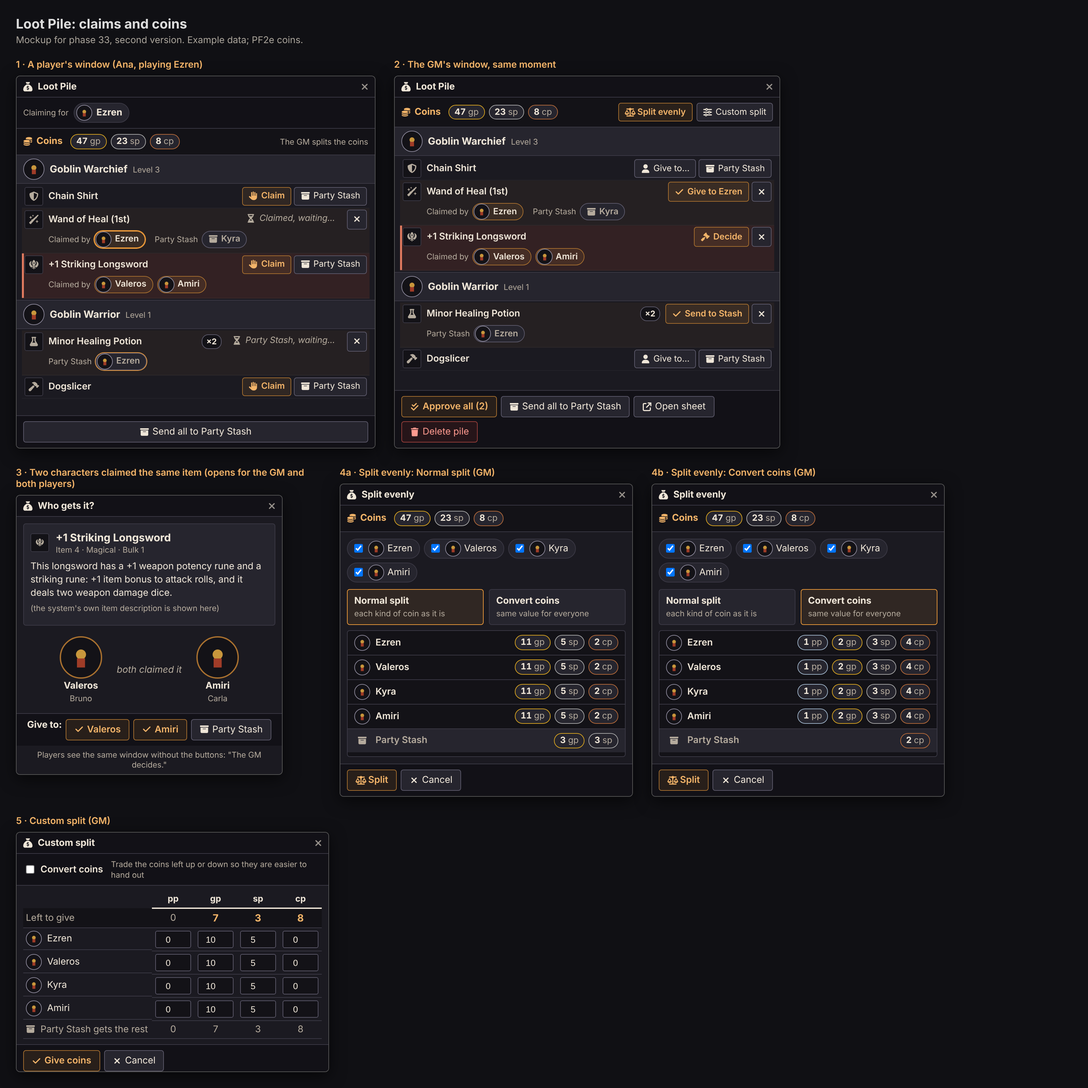
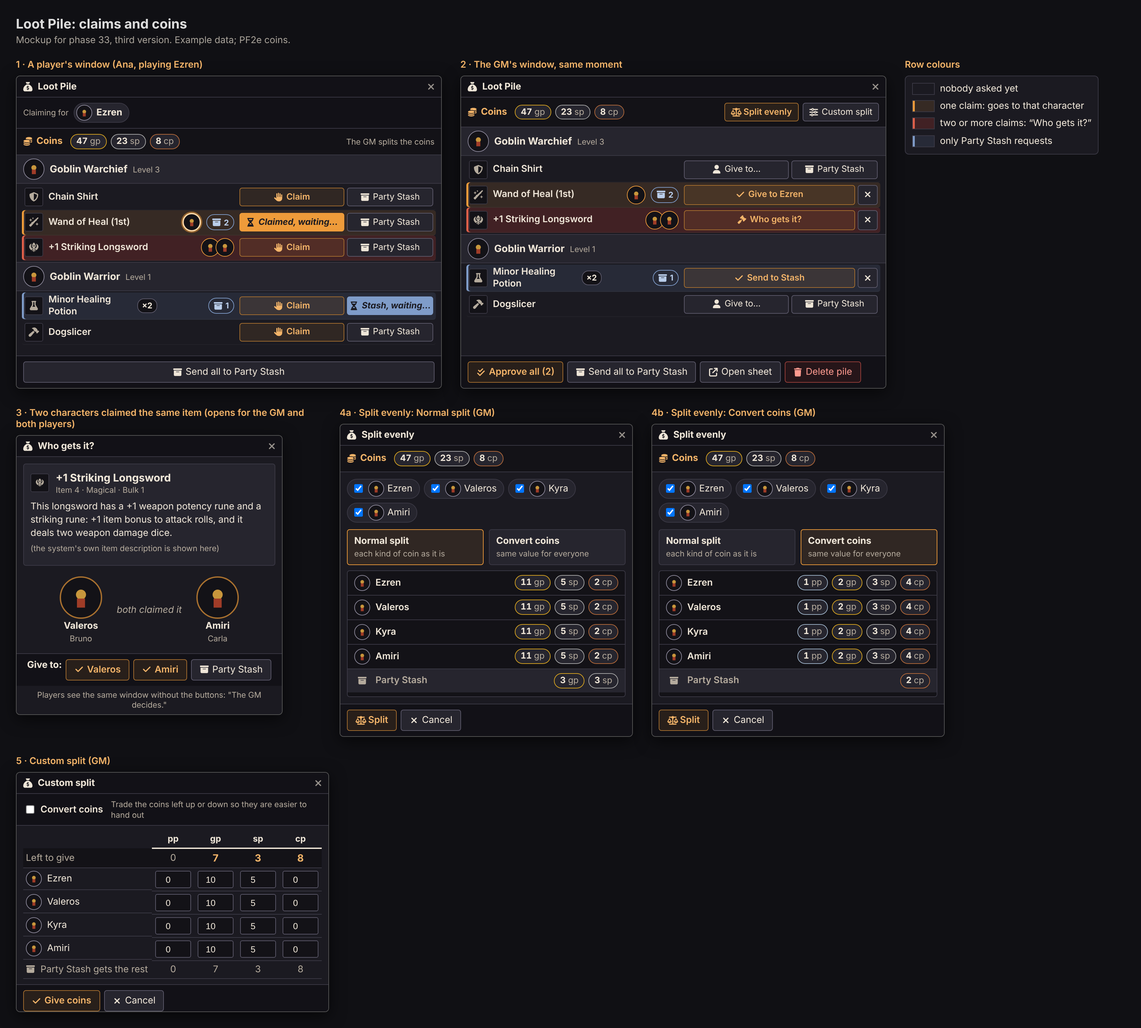
Mockup: loot claims, third version (one row per item, claimer tokens, stash count, row colours)
Claude-Session: https://claude.ai/code/session_0153o4CiDP6WqBbXwEtu9WMy

Changed region(s): [[0.0, 0.0, 0.964, 0.991]]

diff --git a/docs/mockups/loot-claims.html b/docs/mockups/loot-claims.html
@@ -70,32 +70,46 @@ figure { margin: 0; } figcaption { max-width: 460px; margin-bottom: 8px; color: 
 .lucd20-loot-app .mk-share-name { flex: none; width: 96px; font-weight: 600; } .lucd20-loot-app .mk-share .mk-coin-list { justify-content: flex-end; }
 .lucd20-loot-app .mk-share.stash { background: var(--ll-bg-raised); color: var(--ll-text-muted); } .lucd20-loot-app .mk-share.stash > .ll-i { width: 24px; text-align: center; }
 .lucd20-loot-app .mk-pcs { padding-top: 10px; }
+
+.lucd20-loot-app .mk-row { border-bottom: 1px solid rgba(255,255,255,.04); min-height: 38px; }
+.lucd20-loot-app .mk-row.is-waiting, .lucd20-loot-app .mk-sw.is-waiting { background: rgba(238,155,58,.13); box-shadow: inset 3px 0 0 var(--ll-accent); }
+.lucd20-loot-app .mk-row.is-contested, .lucd20-loot-app .mk-sw.is-contested { background: rgba(190,60,45,.24); box-shadow: inset 3px 0 0 #e0604a; }
+.lucd20-loot-app .mk-row.is-stash, .lucd20-loot-app .mk-sw.is-stash { background: rgba(110,140,190,.14); box-shadow: inset 3px 0 0 #7f9cc9; }
+.lucd20-loot-app .mk-claimcol { display: inline-flex; flex: none; align-items: center; justify-content: flex-end; gap: 8px; width: 108px; }
+.lucd20-loot-app .mk-tokens { display: inline-flex; } .lucd20-loot-app .mk-tokens .lucd20-loot-portrait { width: 28px; height: 28px; border-color: var(--ll-accent); }
+.lucd20-loot-app .mk-tokens .lucd20-loot-portrait + .lucd20-loot-portrait { margin-left: -6px; }
+.lucd20-loot-app .mk-tokens .lucd20-loot-portrait.me { border-width: 2px; border-color: #ffd9a8; box-shadow: 0 0 0 2px rgba(238,155,58,.5); }
+.lucd20-loot-app .mk-stashcount { display: inline-flex; align-items: center; gap: 4px; height: 24px; padding: 0 7px; border: 1px solid #7f9cc9; border-radius: 12px; color: #b9cdea; font-size: 12px; }
+.lucd20-loot-app button.ll-btn.mk-w1 { width: 158px !important; justify-content: center; } .lucd20-loot-app button.ll-btn.mk-w2 { width: 130px !important; justify-content: center; } .lucd20-loot-app button.ll-btn.mk-w3 { width: 258px !important; justify-content: center; }
+.lucd20-loot-app .mk-row .actions { flex: none; }
+.lucd20-loot-app button.mk-on { background: var(--ll-accent); border-color: var(--ll-accent); color: #1b1a21; font-weight: 700; font-style: italic; }
+.lucd20-loot-app button.mk-on.stash { background: #7f9cc9; border-color: #7f9cc9; }
+.lucd20-loot-app .mk-legend { display: flex !important; flex-direction: row !important; flex-wrap: wrap; align-items: center; gap: 8px; padding: 10px !important; border: 1px solid #3b3945; border-radius: 6px; max-width: 300px; }
+.lucd20-loot-app .mk-sw { width: 34px; height: 18px; border: 1px solid var(--ll-border); }
+.lucd20-loot-app .mk-legend { display: grid !important; grid-template-columns: 34px 1fr; }
 </style></head><body>
-<h1>Loot Pile: claims and coins</h1><p class="lead">Mockup for phase 33, second version. Example data; PF2e coins.</p>
-<div class="board">
-<figure><figcaption>1 · A player's window (Ana, playing Ezren)</figcaption><div class="application lucd20-loot-app lucd20-loot-window" style="width:540px;height:560px"><header class="window-header"><i class="fa-solid fa-sack-dollar"></i> Loot Pile<i class="fa-solid fa-xmark mk-x"></i></header><section class="window-content"><div class="lucd20-loot-body"><div class="lucd20-loot-taker"><span class="label">Claiming for</span><span class="lucd20-loot-taker-chip"><span class="lucd20-loot-portrait small"><img src="/modules/lucd20-automations/tools/harness/icons/ezren.webp" alt=""></span><strong>Ezren</strong></span></div>
-<div class="mk-coins"><span class="mk-coins-title"><i class="ll-i fa-solid fa-coins" aria-hidden="true"></i>Coins</span><span class="mk-coin-list"><span class="mk-coin gp"><b>47</b> gp</span><span class="mk-coin sp"><b>23</b> sp</span><span class="mk-coin cp"><b>8</b> cp</span></span><span class="mk-coins-note">The GM splits the coins</span></div><div class="lucd20-loot-list"><section class="lucd20-loot-group"><header class="lucd20-loot-group-header"><span class="lucd20-loot-portrait "><img src="/modules/lucd20-automations/tools/harness/icons/boss-actor.png" alt=""></span><span class="who"><span class="npc">Goblin Warchief</span><span class="level">Level 3</span></span></header><ol><li class="mk-row "><div class="lucd20-loot-item"><span class="lucd20-loot-icon mk-ico"><i class="fa-solid fa-shield-halved"></i></span><span class="name">Chain Shirt</span><span class="actions"><button type="button" class="ll-btn ll-btn-take" ><i class="ll-i fa-solid fa-hand" aria-hidden="true"></i><span>Claim</span></button><button type="button" class="ll-btn " ><i class="ll-i fa-solid fa-box-archive" aria-hidden="true"></i><span>Party Stash</span></button></span></div></li><li class="mk-row is-waiting"><div class="lucd20-loot-item"><span class="lucd20-loot-icon mk-ico"><i class="fa-solid fa-wand-sparkles"></i></span><span class="name">Wand of Heal (1st)</span><span class="actions"><span class="mk-wait"><i class="ll-i fa-solid fa-hourglass-half" aria-hidden="true"></i><span>Claimed, waiting…</span></span><button type="button" class="ll-btn ll-btn-square" data-tooltip="Withdraw"><i class="ll-i fa-solid fa-xmark" aria-hidden="true"></i><span></span></button></span></div><div class="mk-claims"><span class="mk-claims-label">Claimed by</span><span class="mk-chip me"><span class="lucd20-loot-portrait small"><img src="/modules/lucd20-automations/tools/harness/icons/ezren.webp" alt=""></span><span>Ezren</span></span><span class="mk-claims-label">Party Stash</span><span class="mk-chip stash"><i class="ll-i fa-solid fa-box-archive" aria-hidden="true"></i><span>Kyra</span></span></div></li><li class="mk-row is-contested"><div class="lucd20-loot-item"><span class="lucd20-loot-icon mk-ico"><i class="fa-solid fa-khanda"></i></span><span class="name">+1 Striking Longsword</span><span class="actions"><button type="button" class="ll-btn ll-btn-take" ><i class="ll-i fa-solid fa-hand" aria-hidden="true"></i><span>Claim</span></button><button type="button" class="ll-btn " ><i class="ll-i fa-solid fa-box-archive" aria-hidden="true"></i><span>Party Stash</span></button></span></div><div class="mk-claims"><span class="mk-claims-label">Claimed by</span><span class="mk-chip "><span class="lucd20-loot-portrait small"><img src="/modules/lucd20-automations/tools/harness/icons/valeros.webp" alt=""></span><span>Valeros</span></span><span class="mk-chip "><span class="lucd20-loot-portrait small"><img src="/modules/lucd20-automations/tools/harness/icons/boss-actor.png" alt=""></span><span>Amiri</span></span></div></li></ol></section><section class="lucd20-loot-group"><header class="lucd20-loot-group-header"><span class="lucd20-loot-portrait "><img src="/modules/lucd20-automations/tools/harness/icons/goblin.webp" alt=""></span><span class="who"><span class="npc">Goblin Warrior</span><span class="level">Level 1</span></span></header><ol><li class="mk-row is-waiting"><div class="lucd20-loot-item"><span class="lucd20-loot-icon mk-ico"><i class="fa-solid fa-flask"></i></span><span class="name">Minor Healing Potion</span><span class="qty">×2</span><span class="actions"><span class="mk-wait stash"><i class="ll-i fa-solid fa-hourglass-half" aria-hidden="true"></i><span>Party Stash, waiting…</span></span><button type="button" class="ll-btn ll-btn-square" ><i class="ll-i fa-solid fa-xmark" aria-hidden="true"></i><span></span></button></span></div><div class="mk-claims"><span class="mk-claims-label">Party Stash</span><span class="mk-chip me stash"><span class="lucd20-loot-portrait small"><img src="/modules/lucd20-automations/tools/harness/icons/ezren.webp" alt=""></span><span>Ezren</span></span></div></li><li class="mk-row "><div class="lucd20-loot-item"><span class="lucd20-loot-icon mk-ico"><i class="fa-solid fa-hammer"></i></span><span class="name">Dogslicer</span><span class="actions"><button type="button" class="ll-btn ll-btn-take" ><i class="ll-i fa-solid fa-hand" aria-hidden="true"></i><span>Claim</span></button><button type="button" class="ll-btn " ><i class="ll-i fa-solid fa-box-archive" aria-hidden="true"></i><span>Party Stash</span></button></span></div></li></ol></section></div>
-<footer class="lucd20-loot-footer"><button type="button" class="ll-btn ll-btn-footer ll-btn-all" ><i class="ll-i fa-solid fa-box-archive" aria-hidden="true"></i><span>Send all to Party Stash</span></button></footer></div></section></div></figure>
-<figure><figcaption>2 · The GM's window, same moment</figcaption><div class="application lucd20-loot-app lucd20-loot-window" style="width:580px;height:560px"><header class="window-header"><i class="fa-solid fa-sack-dollar"></i> Loot Pile<i class="fa-solid fa-xmark mk-x"></i></header><section class="window-content"><div class="lucd20-loot-body"><div class="mk-coins"><span class="mk-coins-title"><i class="ll-i fa-solid fa-coins" aria-hidden="true"></i>Coins</span><span class="mk-coin-list"><span class="mk-coin gp"><b>47</b> gp</span><span class="mk-coin sp"><b>23</b> sp</span><span class="mk-coin cp"><b>8</b> cp</span></span><span class="mk-coin-actions"><button type="button" class="ll-btn ll-btn-take" ><i class="ll-i fa-solid fa-scale-balanced" aria-hidden="true"></i><span>Split evenly</span></button><button type="button" class="ll-btn " ><i class="ll-i fa-solid fa-sliders" aria-hidden="true"></i><span>Custom split</span></button></span></div>
-<div class="lucd20-loot-list"><section class="lucd20-loot-group"><header class="lucd20-loot-group-header"><span class="lucd20-loot-portrait "><img src="/modules/lucd20-automations/tools/harness/icons/boss-actor.png" alt=""></span><span class="who"><span class="npc">Goblin Warchief</span><span class="level">Level 3</span></span></header><ol><li class="mk-row "><div class="lucd20-loot-item"><span class="lucd20-loot-icon mk-ico"><i class="fa-solid fa-shield-halved"></i></span><span class="name">Chain Shirt</span><span class="actions"><button type="button" class="ll-btn " ><i class="ll-i fa-solid fa-user" aria-hidden="true"></i><span>Give to…</span></button><button type="button" class="ll-btn " ><i class="ll-i fa-solid fa-box-archive" aria-hidden="true"></i><span>Party Stash</span></button></span></div></li><li class="mk-row is-waiting"><div class="lucd20-loot-item"><span class="lucd20-loot-icon mk-ico"><i class="fa-solid fa-wand-sparkles"></i></span><span class="name">Wand of Heal (1st)</span><span class="actions"><button type="button" class="ll-btn ll-btn-take" ><i class="ll-i fa-solid fa-check" aria-hidden="true"></i><span>Give to Ezren</span></button><button type="button" class="ll-btn ll-btn-square" data-tooltip="Refuse"><i class="ll-i fa-solid fa-xmark" aria-hidden="true"></i><span></span></button></span></div><div class="mk-claims"><span class="mk-claims-label">Claimed by</span><span class="mk-chip "><span class="lucd20-loot-portrait small"><img src="/modules/lucd20-automations/tools/harness/icons/ezren.webp" alt=""></span><span>Ezren</span></span><span class="mk-claims-label">Party Stash</span><span class="mk-chip stash"><i class="ll-i fa-solid fa-box-archive" aria-hidden="true"></i><span>Kyra</span></span></div></li><li class="mk-row is-contested"><div class="lucd20-loot-item"><span class="lucd20-loot-icon mk-ico"><i class="fa-solid fa-khanda"></i></span><span class="name">+1 Striking Longsword</span><span class="actions"><button type="button" class="ll-btn ll-btn-take" ><i class="ll-i fa-solid fa-gavel" aria-hidden="true"></i><span>Decide</span></button><button type="button" class="ll-btn ll-btn-square" data-tooltip="Refuse"><i class="ll-i fa-solid fa-xmark" aria-hidden="true"></i><span></span></button></span></div><div class="mk-claims"><span class="mk-claims-label">Claimed by</span><span class="mk-chip "><span class="lucd20-loot-portrait small"><img src="/modules/lucd20-automations/tools/harness/icons/valeros.webp" alt=""></span><span>Valeros</span></span><span class="mk-chip "><span class="lucd20-loot-portrait small"><img src="/modules/lucd20-automations/tools/harness/icons/boss-actor.png" alt=""></span><span>Amiri</span></span></div></li></ol></section><section class="lucd20-loot-group"><header class="lucd20-loot-group-header"><span class="lucd20-loot-portrait "><img src="/modules/lucd20-automations/tools/harness/icons/goblin.webp" alt=""></span><span class="who"><span class="npc">Goblin Warrior</span><span class="level">Level 1</span></span></header><ol><li class="mk-row is-waiting"><div class="lucd20-loot-item"><span class="lucd20-loot-icon mk-ico"><i class="fa-solid fa-flask"></i></span><span class="name">Minor Healing Potion</span><span class="qty">×2</span><span class="actions"><button type="button" class="ll-btn ll-btn-take" ><i class="ll-i fa-solid fa-check" aria-hidden="true"></i><span>Send to Stash</span></button><button type="button" class="ll-btn ll-btn-square" data-tooltip="Refuse"><i class="ll-i fa-solid fa-xmark" aria-hidden="true"></i><span></span></button></span></div><div class="mk-claims"><span class="mk-claims-label">Party Stash</span><span class="mk-chip stash"><span class="lucd20-loot-portrait small"><img src="/modules/lucd20-automations/tools/harness/icons/ezren.webp" alt=""></span><span>Ezren</span></span></div></li><li class="mk-row "><div class="lucd20-loot-item"><span class="lucd20-loot-icon mk-ico"><i class="fa-solid fa-hammer"></i></span><span class="name">Dogslicer</span><span class="actions"><button type="button" class="ll-btn " ><i class="ll-i fa-solid fa-user" aria-hidden="true"></i><span>Give to…</span></button><button type="button" class="ll-btn " ><i class="ll-i fa-solid fa-box-archive" aria-hidden="true"></i><span>Party Stash</span></button></span></div></li></ol></section></div><footer class="lucd20-loot-footer is-gm"><button type="button" class="ll-btn ll-btn-footer ll-btn-take" ><i class="ll-i fa-solid fa-check-double" aria-hidden="true"></i><span>Approve all (2)</span></button><button type="button" class="ll-btn ll-btn-footer" ><i class="ll-i fa-solid fa-box-archive" aria-hidden="true"></i><span>Send all to Party Stash</span></button><button type="button" class="ll-btn ll-btn-footer" ><i class="ll-i fa-solid fa-arrow-up-right-from-square" aria-hidden="true"></i><span>Open sheet</span></button><button type="button" class="ll-btn ll-btn-footer ll-btn-danger" ><i class="ll-i fa-solid fa-trash" aria-hidden="true"></i><span>Delete pile</span></button></footer></div></section></div></figure>
-<figure><figcaption>3 · Two characters claimed the same item (opens for the GM and both players)</figcaption><div class="application lucd20-loot-app lucd20-loot-window" style="width:400px;height:420px"><header class="window-header"><i class="fa-solid fa-sack-dollar"></i> Who gets it?<i class="fa-solid fa-xmark mk-x"></i></header><section class="window-content"><div class="lucd20-loot-body mk-pad"><div class="mk-card"><header><span class="lucd20-loot-icon mk-ico"><i class="fa-solid fa-khanda"></i></span><div><strong>+1 Striking Longsword</strong><span>Item 4 · Magical · Bulk 1</span></div></header>
+<h1>Loot Pile: claims and coins</h1><p class="lead">Mockup for phase 33, third version. Example data; PF2e coins.</p>
+<div class="board"><figure><figcaption>1 · A player's window (Ana, playing Ezren)</figcaption><div class="application lucd20-loot-app lucd20-loot-window" style="width:640px;height:470px"><header class="window-header"><i class="fa-solid fa-sack-dollar"></i> Loot Pile<i class="fa-solid fa-xmark mk-x"></i></header><section class="window-content"><div class="lucd20-loot-body"><div class="lucd20-loot-taker"><span class="label">Claiming for</span><span class="lucd20-loot-taker-chip"><span class="lucd20-loot-portrait small" data-tooltip="Ezren" title="Ezren"><img src="/modules/lucd20-automations/tools/harness/icons/ezren.webp" alt=""></span><strong>Ezren</strong></span></div>
+<div class="mk-coins"><span class="mk-coins-title"><i class="ll-i fa-solid fa-coins" aria-hidden="true"></i>Coins</span><span class="mk-coin-list"><span class="mk-coin gp"><b>47</b> gp</span><span class="mk-coin sp"><b>23</b> sp</span><span class="mk-coin cp"><b>8</b> cp</span></span><span class="mk-coins-note">The GM splits the coins</span></div><div class="lucd20-loot-list">
+<section class="lucd20-loot-group"><header class="lucd20-loot-group-header"><span class="lucd20-loot-portrait"><img src="/modules/lucd20-automations/tools/harness/icons/boss-actor.png" alt=""></span><span class="who"><span class="npc">Goblin Warchief</span><span class="level">Level 3</span></span></header><ol><li class="lucd20-loot-item mk-row "><span class="lucd20-loot-icon mk-ico"><i class="fa-solid fa-shield-halved"></i></span><span class="name">Chain Shirt</span><span class="mk-claimcol"><span class="mk-tokens"></span></span><span class="actions"><button type="button" class="ll-btn ll-btn-take mk-w1" ><i class="ll-i fa-solid fa-hand" aria-hidden="true"></i><span>Claim</span></button><button type="button" class="ll-btn mk-w2" ><i class="ll-i fa-solid fa-box-archive" aria-hidden="true"></i><span>Party Stash</span></button></span></li><li class="lucd20-loot-item mk-row is-waiting"><span class="lucd20-loot-icon mk-ico"><i class="fa-solid fa-wand-sparkles"></i></span><span class="name">Wand of Heal (1st)</span><span class="mk-claimcol"><span class="mk-tokens"><span class="lucd20-loot-portrait small me" data-tooltip="Ezren" title="Ezren"><img src="/modules/lucd20-automations/tools/harness/icons/ezren.webp" alt=""></span></span><span class="mk-stashcount" title="Party Stash: Kyra, Amiri"><i class="ll-i fa-solid fa-box-archive" aria-hidden="true"></i><b>2</b></span></span><span class="actions"><button type="button" class="ll-btn mk-on mk-w1" title="Click to take your claim back"><i class="ll-i fa-solid fa-hourglass-half" aria-hidden="true"></i><span>Claimed, waiting…</span></button><button type="button" class="ll-btn mk-w2" ><i class="ll-i fa-solid fa-box-archive" aria-hidden="true"></i><span>Party Stash</span></button></span></li><li class="lucd20-loot-item mk-row is-contested"><span class="lucd20-loot-icon mk-ico"><i class="fa-solid fa-khanda"></i></span><span class="name">+1 Striking Longsword</span><span class="mk-claimcol"><span class="mk-tokens"><span class="lucd20-loot-portrait small" data-tooltip="Valeros" title="Valeros"><img src="/modules/lucd20-automations/tools/harness/icons/valeros.webp" alt=""></span><span class="lucd20-loot-portrait small" data-tooltip="Amiri" title="Amiri"><img src="/modules/lucd20-automations/tools/harness/icons/boss-actor.png" alt=""></span></span></span><span class="actions"><button type="button" class="ll-btn ll-btn-take mk-w1" ><i class="ll-i fa-solid fa-hand" aria-hidden="true"></i><span>Claim</span></button><button type="button" class="ll-btn mk-w2" ><i class="ll-i fa-solid fa-box-archive" aria-hidden="true"></i><span>Party Stash</span></button></span></li></ol></section>
+<section class="lucd20-loot-group"><header class="lucd20-loot-group-header"><span class="lucd20-loot-portrait"><img src="/modules/lucd20-automations/tools/harness/icons/goblin.webp" alt=""></span><span class="who"><span class="npc">Goblin Warrior</span><span class="level">Level 1</span></span></header><ol><li class="lucd20-loot-item mk-row is-stash"><span class="lucd20-loot-icon mk-ico"><i class="fa-solid fa-flask"></i></span><span class="name">Minor Healing Potion</span><span class="qty">×2</span><span class="mk-claimcol"><span class="mk-tokens"></span><span class="mk-stashcount" title="Party Stash: Ezren"><i class="ll-i fa-solid fa-box-archive" aria-hidden="true"></i><b>1</b></span></span><span class="actions"><button type="button" class="ll-btn ll-btn-take mk-w1" ><i class="ll-i fa-solid fa-hand" aria-hidden="true"></i><span>Claim</span></button><button type="button" class="ll-btn mk-on stash mk-w2" title="Click to take it back"><i class="ll-i fa-solid fa-hourglass-half" aria-hidden="true"></i><span>Stash, waiting…</span></button></span></li><li class="lucd20-loot-item mk-row "><span class="lucd20-loot-icon mk-ico"><i class="fa-solid fa-hammer"></i></span><span class="name">Dogslicer</span><span class="mk-claimcol"><span class="mk-tokens"></span></span><span class="actions"><button type="button" class="ll-btn ll-btn-take mk-w1" ><i class="ll-i fa-solid fa-hand" aria-hidden="true"></i><span>Claim</span></button><button type="button" class="ll-btn mk-w2" ><i class="ll-i fa-solid fa-box-archive" aria-hidden="true"></i><span>Party Stash</span></button></span></li></ol></section>
+</div><footer class="lucd20-loot-footer"><button type="button" class="ll-btn ll-btn-footer ll-btn-all" ><i class="ll-i fa-solid fa-box-archive" aria-hidden="true"></i><span>Send all to Party Stash</span></button></footer></div></section></div></figure><figure><figcaption>2 · The GM's window, same moment</figcaption><div class="application lucd20-loot-app lucd20-loot-window" style="width:640px;height:470px"><header class="window-header"><i class="fa-solid fa-sack-dollar"></i> Loot Pile<i class="fa-solid fa-xmark mk-x"></i></header><section class="window-content"><div class="lucd20-loot-body"><div class="mk-coins"><span class="mk-coins-title"><i class="ll-i fa-solid fa-coins" aria-hidden="true"></i>Coins</span><span class="mk-coin-list"><span class="mk-coin gp"><b>47</b> gp</span><span class="mk-coin sp"><b>23</b> sp</span><span class="mk-coin cp"><b>8</b> cp</span></span><span class="mk-coin-actions"><button type="button" class="ll-btn ll-btn-take" ><i class="ll-i fa-solid fa-scale-balanced" aria-hidden="true"></i><span>Split evenly</span></button><button type="button" class="ll-btn " ><i class="ll-i fa-solid fa-sliders" aria-hidden="true"></i><span>Custom split</span></button></span></div><div class="lucd20-loot-list">
+<section class="lucd20-loot-group"><header class="lucd20-loot-group-header"><span class="lucd20-loot-portrait"><img src="/modules/lucd20-automations/tools/harness/icons/boss-actor.png" alt=""></span><span class="who"><span class="npc">Goblin Warchief</span><span class="level">Level 3</span></span></header><ol><li class="lucd20-loot-item mk-row "><span class="lucd20-loot-icon mk-ico"><i class="fa-solid fa-shield-halved"></i></span><span class="name">Chain Shirt</span><span class="mk-claimcol"><span class="mk-tokens"></span></span><span class="actions"><button type="button" class="ll-btn mk-w1" ><i class="ll-i fa-solid fa-user" aria-hidden="true"></i><span>Give to…</span></button><button type="button" class="ll-btn mk-w2" ><i class="ll-i fa-solid fa-box-archive" aria-hidden="true"></i><span>Party Stash</span></button></span></li><li class="lucd20-loot-item mk-row is-waiting"><span class="lucd20-loot-icon mk-ico"><i class="fa-solid fa-wand-sparkles"></i></span><span class="name">Wand of Heal (1st)</span><span class="mk-claimcol"><span class="mk-tokens"><span class="lucd20-loot-portrait small" data-tooltip="Ezren" title="Ezren"><img src="/modules/lucd20-automations/tools/harness/icons/ezren.webp" alt=""></span></span><span class="mk-stashcount" title="Party Stash: Kyra, Amiri"><i class="ll-i fa-solid fa-box-archive" aria-hidden="true"></i><b>2</b></span></span><span class="actions"><button type="button" class="ll-btn ll-btn-take mk-w3" ><i class="ll-i fa-solid fa-check" aria-hidden="true"></i><span>Give to Ezren</span></button><button type="button" class="ll-btn ll-btn-square" title="Refuse"><i class="ll-i fa-solid fa-xmark" aria-hidden="true"></i><span></span></button></span></li><li class="lucd20-loot-item mk-row is-contested"><span class="lucd20-loot-icon mk-ico"><i class="fa-solid fa-khanda"></i></span><span class="name">+1 Striking Longsword</span><span class="mk-claimcol"><span class="mk-tokens"><span class="lucd20-loot-portrait small" data-tooltip="Valeros" title="Valeros"><img src="/modules/lucd20-automations/tools/harness/icons/valeros.webp" alt=""></span><span class="lucd20-loot-portrait small" data-tooltip="Amiri" title="Amiri"><img src="/modules/lucd20-automations/tools/harness/icons/boss-actor.png" alt=""></span></span></span><span class="actions"><button type="button" class="ll-btn ll-btn-take mk-w3" ><i class="ll-i fa-solid fa-gavel" aria-hidden="true"></i><span>Who gets it?</span></button><button type="button" class="ll-btn ll-btn-square" title="Refuse"><i class="ll-i fa-solid fa-xmark" aria-hidden="true"></i><span></span></button></span></li></ol></section>
+<section class="lucd20-loot-group"><header class="lucd20-loot-group-header"><span class="lucd20-loot-portrait"><img src="/modules/lucd20-automations/tools/harness/icons/goblin.webp" alt=""></span><span class="who"><span class="npc">Goblin Warrior</span><span class="level">Level 1</span></span></header><ol><li class="lucd20-loot-item mk-row is-stash"><span class="lucd20-loot-icon mk-ico"><i class="fa-solid fa-flask"></i></span><span class="name">Minor Healing Potion</span><span class="qty">×2</span><span class="mk-claimcol"><span class="mk-tokens"></span><span class="mk-stashcount" title="Party Stash: Ezren"><i class="ll-i fa-solid fa-box-archive" aria-hidden="true"></i><b>1</b></span></span><span class="actions"><button type="button" class="ll-btn ll-btn-take mk-w3" ><i class="ll-i fa-solid fa-check" aria-hidden="true"></i><span>Send to Stash</span></button><button type="button" class="ll-btn ll-btn-square" title="Refuse"><i class="ll-i fa-solid fa-xmark" aria-hidden="true"></i><span></span></button></span></li><li class="lucd20-loot-item mk-row "><span class="lucd20-loot-icon mk-ico"><i class="fa-solid fa-hammer"></i></span><span class="name">Dogslicer</span><span class="mk-claimcol"><span class="mk-tokens"></span></span><span class="actions"><button type="button" class="ll-btn mk-w1" ><i class="ll-i fa-solid fa-user" aria-hidden="true"></i><span>Give to…</span></button><button type="button" class="ll-btn mk-w2" ><i class="ll-i fa-solid fa-box-archive" aria-hidden="true"></i><span>Party Stash</span></button></span></li></ol></section>
+</div><footer class="lucd20-loot-footer is-gm"><button type="button" class="ll-btn ll-btn-footer ll-btn-take" ><i class="ll-i fa-solid fa-check-double" aria-hidden="true"></i><span>Approve all (2)</span></button><button type="button" class="ll-btn ll-btn-footer" ><i class="ll-i fa-solid fa-box-archive" aria-hidden="true"></i><span>Send all to Party Stash</span></button><button type="button" class="ll-btn ll-btn-footer" ><i class="ll-i fa-solid fa-arrow-up-right-from-square" aria-hidden="true"></i><span>Open sheet</span></button><button type="button" class="ll-btn ll-btn-footer ll-btn-danger" ><i class="ll-i fa-solid fa-trash" aria-hidden="true"></i><span>Delete pile</span></button></footer></div></section></div></figure><figure><figcaption>Row colours</figcaption><div class="lucd20-loot-app"><div class="window-content mk-legend"><span class="mk-sw"></span>nobody asked yet<span class="mk-sw is-waiting"></span>one claim: goes to that character<span class="mk-sw is-contested"></span>two or more claims: “Who gets it?”<span class="mk-sw is-stash"></span>only Party Stash requests</div></div></figure><figure><figcaption>3 · Two characters claimed the same item (opens for the GM and both players)</figcaption><div class="application lucd20-loot-app lucd20-loot-window" style="width:400px;height:420px"><header class="window-header"><i class="fa-solid fa-sack-dollar"></i> Who gets it?<i class="fa-solid fa-xmark mk-x"></i></header><section class="window-content"><div class="lucd20-loot-body mk-pad"><div class="mk-card"><header><span class="lucd20-loot-icon mk-ico"><i class="fa-solid fa-khanda"></i></span><div><strong>+1 Striking Longsword</strong><span>Item 4 · Magical · Bulk 1</span></div></header>
 <p>This longsword has a +1 weapon potency rune and a striking rune: +1 item bonus to attack rolls, and it deals two weapon damage dice.</p><p class="mk-muted">(the system's own item description is shown here)</p></div>
 <div class="mk-versus"><div class="mk-pc"><span class="lucd20-loot-portrait mk-big"><img src="/modules/lucd20-automations/tools/harness/icons/valeros.webp" alt=""></span><strong>Valeros</strong><span>Bruno</span></div><span class="mk-vs">both claimed it</span><div class="mk-pc"><span class="lucd20-loot-portrait mk-big"><img src="/modules/lucd20-automations/tools/harness/icons/boss-actor.png" alt=""></span><strong>Amiri</strong><span>Carla</span></div></div>
-<footer class="lucd20-loot-footer mk-give"><span class="mk-give-label">Give to:</span><button type="button" class="ll-btn ll-btn-footer ll-btn-take" ><i class="ll-i fa-solid fa-check" aria-hidden="true"></i><span>Valeros</span></button><button type="button" class="ll-btn ll-btn-footer ll-btn-take" ><i class="ll-i fa-solid fa-check" aria-hidden="true"></i><span>Amiri</span></button><button type="button" class="ll-btn ll-btn-footer" ><i class="ll-i fa-solid fa-box-archive" aria-hidden="true"></i><span>Party Stash</span></button></footer><p class="mk-foot-note">Players see the same window without the buttons: "The GM decides."</p></div></section></div></figure>
-<figure><figcaption>4a · Split evenly: Normal split (GM)</figcaption><div class="application lucd20-loot-app lucd20-loot-window" style="width:440px;height:470px"><header class="window-header"><i class="fa-solid fa-sack-dollar"></i> Split evenly<i class="fa-solid fa-xmark mk-x"></i></header><section class="window-content"><div class="lucd20-loot-body mk-pad"><div class="mk-coins"><span class="mk-coins-title"><i class="ll-i fa-solid fa-coins" aria-hidden="true"></i>Coins</span><span class="mk-coin-list"><span class="mk-coin gp"><b>47</b> gp</span><span class="mk-coin sp"><b>23</b> sp</span><span class="mk-coin cp"><b>8</b> cp</span></span></div>
+<footer class="lucd20-loot-footer mk-give"><span class="mk-give-label">Give to:</span><button type="button" class="ll-btn ll-btn-footer ll-btn-take" ><i class="ll-i fa-solid fa-check" aria-hidden="true"></i><span>Valeros</span></button><button type="button" class="ll-btn ll-btn-footer ll-btn-take" ><i class="ll-i fa-solid fa-check" aria-hidden="true"></i><span>Amiri</span></button><button type="button" class="ll-btn ll-btn-footer" ><i class="ll-i fa-solid fa-box-archive" aria-hidden="true"></i><span>Party Stash</span></button></footer><p class="mk-foot-note">Players see the same window without the buttons: "The GM decides."</p></div></section></div></figure><figure><figcaption>4a · Split evenly: Normal split (GM)</figcaption><div class="application lucd20-loot-app lucd20-loot-window" style="width:440px;height:470px"><header class="window-header"><i class="fa-solid fa-sack-dollar"></i> Split evenly<i class="fa-solid fa-xmark mk-x"></i></header><section class="window-content"><div class="lucd20-loot-body mk-pad"><div class="mk-coins"><span class="mk-coins-title"><i class="ll-i fa-solid fa-coins" aria-hidden="true"></i>Coins</span><span class="mk-coin-list"><span class="mk-coin gp"><b>47</b> gp</span><span class="mk-coin sp"><b>23</b> sp</span><span class="mk-coin cp"><b>8</b> cp</span></span></div>
 <div class="mk-pcs"><label class="mk-pcchk"><input type="checkbox" checked><span class="lucd20-loot-portrait small"><img src="/modules/lucd20-automations/tools/harness/icons/ezren.webp" alt=""></span><span>Ezren</span></label><label class="mk-pcchk"><input type="checkbox" checked><span class="lucd20-loot-portrait small"><img src="/modules/lucd20-automations/tools/harness/icons/valeros.webp" alt=""></span><span>Valeros</span></label><label class="mk-pcchk"><input type="checkbox" checked><span class="lucd20-loot-portrait small"><img src="/modules/lucd20-automations/tools/harness/icons/goblin.webp" alt=""></span><span>Kyra</span></label><label class="mk-pcchk"><input type="checkbox" checked><span class="lucd20-loot-portrait small"><img src="/modules/lucd20-automations/tools/harness/icons/boss-actor.png" alt=""></span><span>Amiri</span></label></div>
 <div class="mk-tabs"><label class="mk-tab on"><input type="radio" name="m" checked><strong>Normal split</strong><span>each kind of coin as it is</span></label><label class="mk-tab"><input type="radio" name="m"><strong>Convert coins</strong><span>same value for everyone</span></label></div>
 <div class="mk-preview"><div class="mk-share"><span class="lucd20-loot-portrait small"><img src="/modules/lucd20-automations/tools/harness/icons/ezren.webp" alt=""></span><span class="mk-share-name">Ezren</span><span class="mk-coin-list"><span class="mk-coin gp"><b>11</b> gp</span><span class="mk-coin sp"><b>5</b> sp</span><span class="mk-coin cp"><b>2</b> cp</span></span></div><div class="mk-share"><span class="lucd20-loot-portrait small"><img src="/modules/lucd20-automations/tools/harness/icons/valeros.webp" alt=""></span><span class="mk-share-name">Valeros</span><span class="mk-coin-list"><span class="mk-coin gp"><b>11</b> gp</span><span class="mk-coin sp"><b>5</b> sp</span><span class="mk-coin cp"><b>2</b> cp</span></span></div><div class="mk-share"><span class="lucd20-loot-portrait small"><img src="/modules/lucd20-automations/tools/harness/icons/goblin.webp" alt=""></span><span class="mk-share-name">Kyra</span><span class="mk-coin-list"><span class="mk-coin gp"><b>11</b> gp</span><span class="mk-coin sp"><b>5</b> sp</span><span class="mk-coin cp"><b>2</b> cp</span></span></div><div class="mk-share"><span class="lucd20-loot-portrait small"><img src="/modules/lucd20-automations/tools/harness/icons/boss-actor.png" alt=""></span><span class="mk-share-name">Amiri</span><span class="mk-coin-list"><span class="mk-coin gp"><b>11</b> gp</span><span class="mk-coin sp"><b>5</b> sp</span><span class="mk-coin cp"><b>2</b> cp</span></span></div><div class="mk-share stash"><i class="ll-i fa-solid fa-box-archive" aria-hidden="true"></i><span class="mk-share-name">Party Stash</span><span class="mk-coin-list"><span class="mk-coin gp"><b>3</b> gp</span><span class="mk-coin sp"><b>3</b> sp</span></span></div></div>
-<footer class="lucd20-loot-footer"><button type="button" class="ll-btn ll-btn-footer ll-btn-take" ><i class="ll-i fa-solid fa-scale-balanced" aria-hidden="true"></i><span>Split</span></button><button type="button" class="ll-btn ll-btn-footer" ><i class="ll-i fa-solid fa-xmark" aria-hidden="true"></i><span>Cancel</span></button></footer></div></section></div></figure>
-<figure><figcaption>4b · Split evenly: Convert coins (GM)</figcaption><div class="application lucd20-loot-app lucd20-loot-window" style="width:440px;height:470px"><header class="window-header"><i class="fa-solid fa-sack-dollar"></i> Split evenly<i class="fa-solid fa-xmark mk-x"></i></header><section class="window-content"><div class="lucd20-loot-body mk-pad"><div class="mk-coins"><span class="mk-coins-title"><i class="ll-i fa-solid fa-coins" aria-hidden="true"></i>Coins</span><span class="mk-coin-list"><span class="mk-coin gp"><b>47</b> gp</span><span class="mk-coin sp"><b>23</b> sp</span><span class="mk-coin cp"><b>8</b> cp</span></span></div>
+<footer class="lucd20-loot-footer"><button type="button" class="ll-btn ll-btn-footer ll-btn-take" ><i class="ll-i fa-solid fa-scale-balanced" aria-hidden="true"></i><span>Split</span></button><button type="button" class="ll-btn ll-btn-footer" ><i class="ll-i fa-solid fa-xmark" aria-hidden="true"></i><span>Cancel</span></button></footer></div></section></div></figure><figure><figcaption>4b · Split evenly: Convert coins (GM)</figcaption><div class="application lucd20-loot-app lucd20-loot-window" style="width:440px;height:470px"><header class="window-header"><i class="fa-solid fa-sack-dollar"></i> Split evenly<i class="fa-solid fa-xmark mk-x"></i></header><section class="window-content"><div class="lucd20-loot-body mk-pad"><div class="mk-coins"><span class="mk-coins-title"><i class="ll-i fa-solid fa-coins" aria-hidden="true"></i>Coins</span><span class="mk-coin-list"><span class="mk-coin gp"><b>47</b> gp</span><span class="mk-coin sp"><b>23</b> sp</span><span class="mk-coin cp"><b>8</b> cp</span></span></div>
 <div class="mk-pcs"><label class="mk-pcchk"><input type="checkbox" checked><span class="lucd20-loot-portrait small"><img src="/modules/lucd20-automations/tools/harness/icons/ezren.webp" alt=""></span><span>Ezren</span></label><label class="mk-pcchk"><input type="checkbox" checked><span class="lucd20-loot-portrait small"><img src="/modules/lucd20-automations/tools/harness/icons/valeros.webp" alt=""></span><span>Valeros</span></label><label class="mk-pcchk"><input type="checkbox" checked><span class="lucd20-loot-portrait small"><img src="/modules/lucd20-automations/tools/harness/icons/goblin.webp" alt=""></span><span>Kyra</span></label><label class="mk-pcchk"><input type="checkbox" checked><span class="lucd20-loot-portrait small"><img src="/modules/lucd20-automations/tools/harness/icons/boss-actor.png" alt=""></span><span>Amiri</span></label></div>
 <div class="mk-tabs"><label class="mk-tab"><input type="radio" name="n"><strong>Normal split</strong><span>each kind of coin as it is</span></label><label class="mk-tab on"><input type="radio" name="n" checked><strong>Convert coins</strong><span>same value for everyone</span></label></div>
 <div class="mk-preview"><div class="mk-share"><span class="lucd20-loot-portrait small"><img src="/modules/lucd20-automations/tools/harness/icons/ezren.webp" alt=""></span><span class="mk-share-name">Ezren</span><span class="mk-coin-list"><span class="mk-coin pp"><b>1</b> pp</span><span class="mk-coin gp"><b>2</b> gp</span><span class="mk-coin sp"><b>3</b> sp</span><span class="mk-coin cp"><b>4</b> cp</span></span></div><div class="mk-share"><span class="lucd20-loot-portrait small"><img src="/modules/lucd20-automations/tools/harness/icons/valeros.webp" alt=""></span><span class="mk-share-name">Valeros</span><span class="mk-coin-list"><span class="mk-coin pp"><b>1</b> pp</span><span class="mk-coin gp"><b>2</b> gp</span><span class="mk-coin sp"><b>3</b> sp</span><span class="mk-coin cp"><b>4</b> cp</span></span></div><div class="mk-share"><span class="lucd20-loot-portrait small"><img src="/modules/lucd20-automations/tools/harness/icons/goblin.webp" alt=""></span><span class="mk-share-name">Kyra</span><span class="mk-coin-list"><span class="mk-coin pp"><b>1</b> pp</span><span class="mk-coin gp"><b>2</b> gp</span><span class="mk-coin sp"><b>3</b> sp</span><span class="mk-coin cp"><b>4</b> cp</span></span></div><div class="mk-share"><span class="lucd20-loot-portrait small"><img src="/modules/lucd20-automations/tools/harness/icons/boss-actor.png" alt=""></span><span class="mk-share-name">Amiri</span><span class="mk-coin-list"><span class="mk-coin pp"><b>1</b> pp</span><span class="mk-coin gp"><b>2</b> gp</span><span class="mk-coin sp"><b>3</b> sp</span><span class="mk-coin cp"><b>4</b> cp</span></span></div><div class="mk-share stash"><i class="ll-i fa-solid fa-box-archive" aria-hidden="true"></i><span class="mk-share-name">Party Stash</span><span class="mk-coin-list"><span class="mk-coin cp"><b>2</b> cp</span></span></div></div>
-<footer class="lucd20-loot-footer"><button type="button" class="ll-btn ll-btn-footer ll-btn-take" ><i class="ll-i fa-solid fa-scale-balanced" aria-hidden="true"></i><span>Split</span></button><button type="button" class="ll-btn ll-btn-footer" ><i class="ll-i fa-solid fa-xmark" aria-hidden="true"></i><span>Cancel</span></button></footer></div></section></div></figure>
-<figure><figcaption>5 · Custom split (GM)</figcaption><div class="application lucd20-loot-app lucd20-loot-window" style="width:470px;height:360px"><header class="window-header"><i class="fa-solid fa-sack-dollar"></i> Custom split<i class="fa-solid fa-xmark mk-x"></i></header><section class="window-content"><div class="lucd20-loot-body mk-pad"><div class="mk-custom-top"><label class="mk-toggle"><input type="checkbox">Convert coins</label><span class="mk-muted">Trade the coins left up or down so they are easier to hand out</span></div>
+<footer class="lucd20-loot-footer"><button type="button" class="ll-btn ll-btn-footer ll-btn-take" ><i class="ll-i fa-solid fa-scale-balanced" aria-hidden="true"></i><span>Split</span></button><button type="button" class="ll-btn ll-btn-footer" ><i class="ll-i fa-solid fa-xmark" aria-hidden="true"></i><span>Cancel</span></button></footer></div></section></div></figure><figure><figcaption>5 · Custom split (GM)</figcaption><div class="application lucd20-loot-app lucd20-loot-window" style="width:470px;height:360px"><header class="window-header"><i class="fa-solid fa-sack-dollar"></i> Custom split<i class="fa-solid fa-xmark mk-x"></i></header><section class="window-content"><div class="lucd20-loot-body mk-pad"><div class="mk-custom-top"><label class="mk-toggle"><input type="checkbox">Convert coins</label><span class="mk-muted">Trade the coins left up or down so they are easier to hand out</span></div>
 <table class="mk-table"><thead><tr><th></th><th class="pp">pp</th><th class="gp">gp</th><th class="sp">sp</th><th class="cp">cp</th></tr>
 <tr class="mk-left"><td>Left to give</td><td>0</td><td><b>7</b></td><td><b>3</b></td><td><b>8</b></td></tr></thead><tbody>
 <tr><td class="mk-who"><span class="lucd20-loot-portrait small"><img src="/modules/lucd20-automations/tools/harness/icons/ezren.webp" alt=""></span><span>Ezren</span></td><td><input type="number" value="0"></td><td><input type="number" value="10"></td><td><input type="number" value="5"></td><td><input type="number" value="0"></td></tr><tr><td class="mk-who"><span class="lucd20-loot-portrait small"><img src="/modules/lucd20-automations/tools/harness/icons/valeros.webp" alt=""></span><span>Valeros</span></td><td><input type="number" value="0"></td><td><input type="number" value="10"></td><td><input type="number" value="5"></td><td><input type="number" value="0"></td></tr><tr><td class="mk-who"><span class="lucd20-loot-portrait small"><img src="/modules/lucd20-automations/tools/harness/icons/goblin.webp" alt=""></span><span>Kyra</span></td><td><input type="number" value="0"></td><td><input type="number" value="10"></td><td><input type="number" value="5"></td><td><input type="number" value="0"></td></tr><tr><td class="mk-who"><span class="lucd20-loot-portrait small"><img src="/modules/lucd20-automations/tools/harness/icons/boss-actor.png" alt=""></span><span>Amiri</span></td><td><input type="number" value="0"></td><td><input type="number" value="10"></td><td><input type="number" value="5"></td><td><input type="number" value="0"></td></tr>
 </tbody><tfoot><tr><td class="mk-who"><i class="ll-i fa-solid fa-box-archive" aria-hidden="true"></i><span>Party Stash gets the rest</span></td><td>0</td><td>7</td><td>3</td><td>8</td></tr></tfoot></table>
-<footer class="lucd20-loot-footer"><button type="button" class="ll-btn ll-btn-footer ll-btn-take" ><i class="ll-i fa-solid fa-check" aria-hidden="true"></i><span>Give coins</span></button><button type="button" class="ll-btn ll-btn-footer" ><i class="ll-i fa-solid fa-xmark" aria-hidden="true"></i><span>Cancel</span></button></footer></div></div></section></div></figure>
-</div></body></html>
+<footer class="lucd20-loot-footer"><button type="button" class="ll-btn ll-btn-footer ll-btn-take" ><i class="ll-i fa-solid fa-check" aria-hidden="true"></i><span>Give coins</span></button><button type="button" class="ll-btn ll-btn-footer" ><i class="ll-i fa-solid fa-xmark" aria-hidden="true"></i><span>Cancel</span></button></footer></div></div></section></div></figure></div></body></html>
